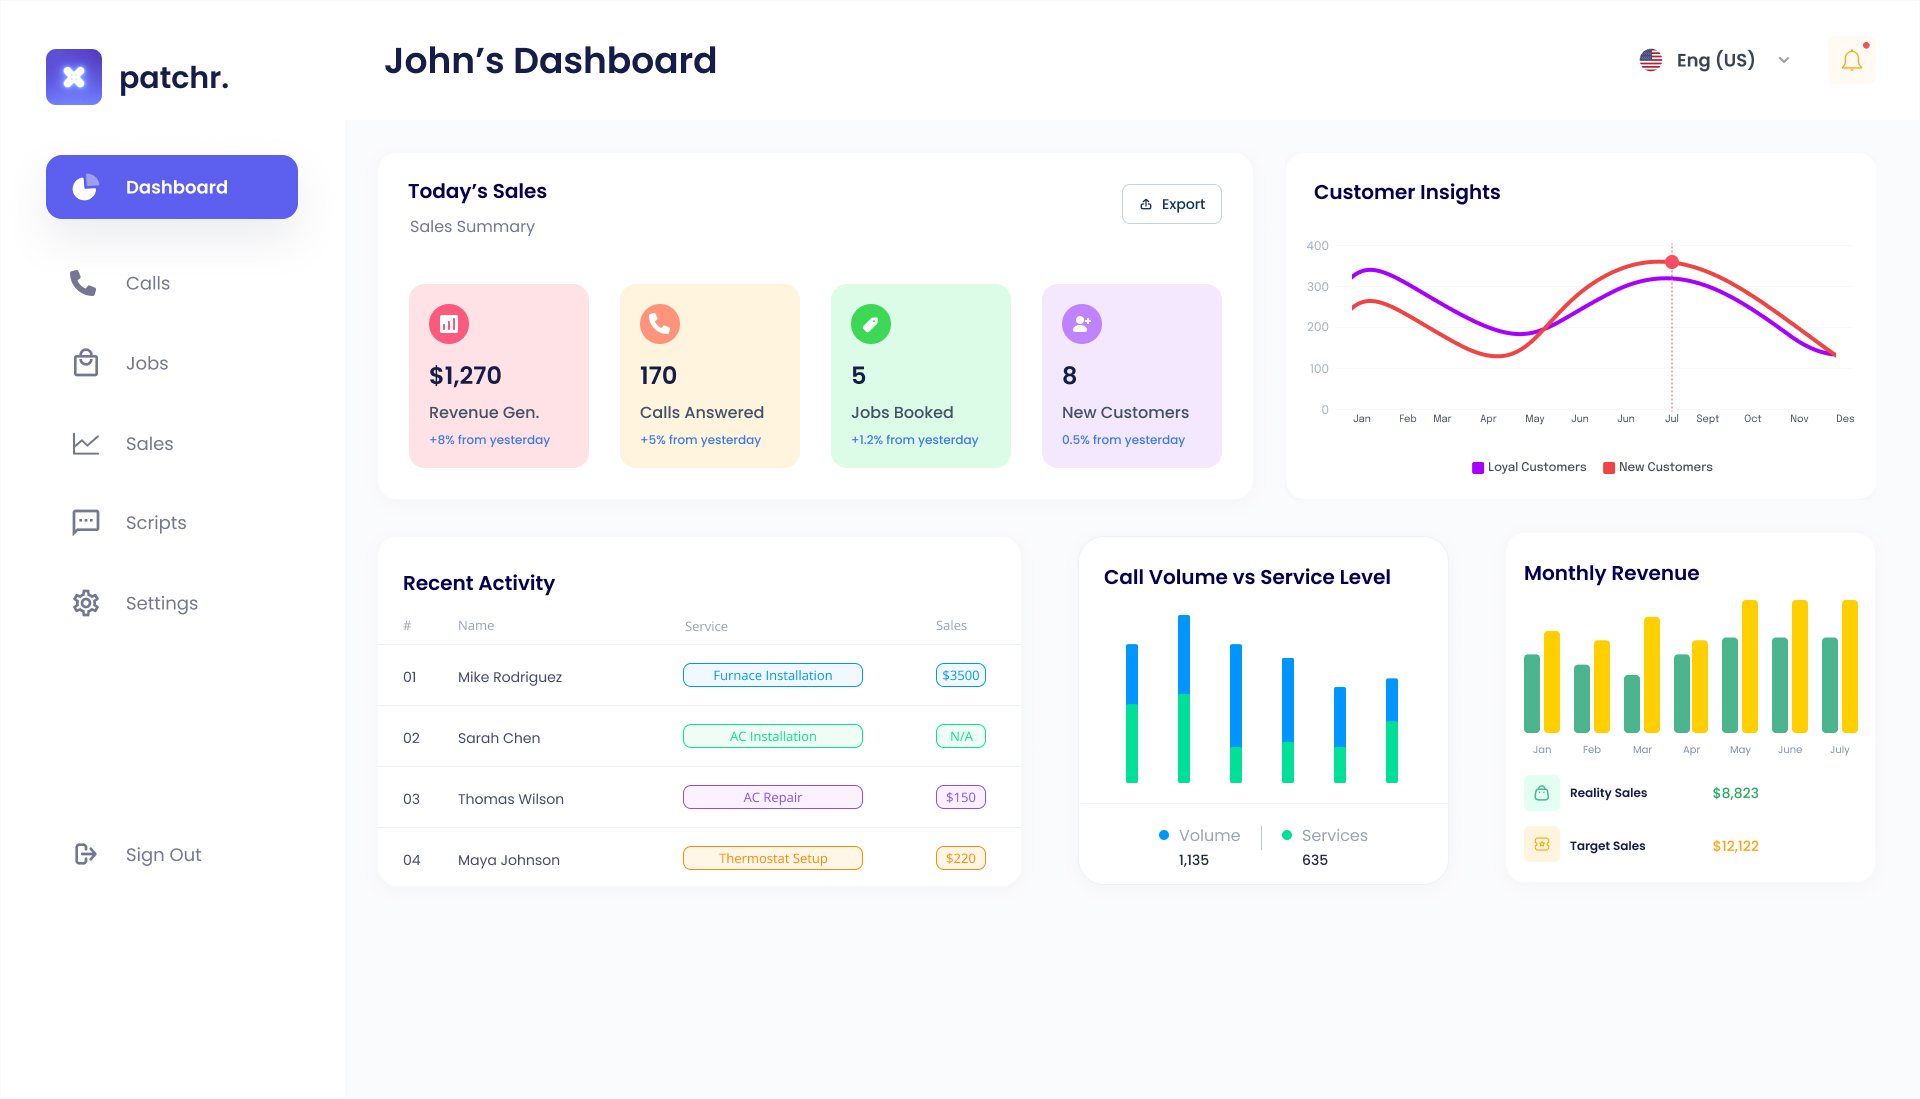
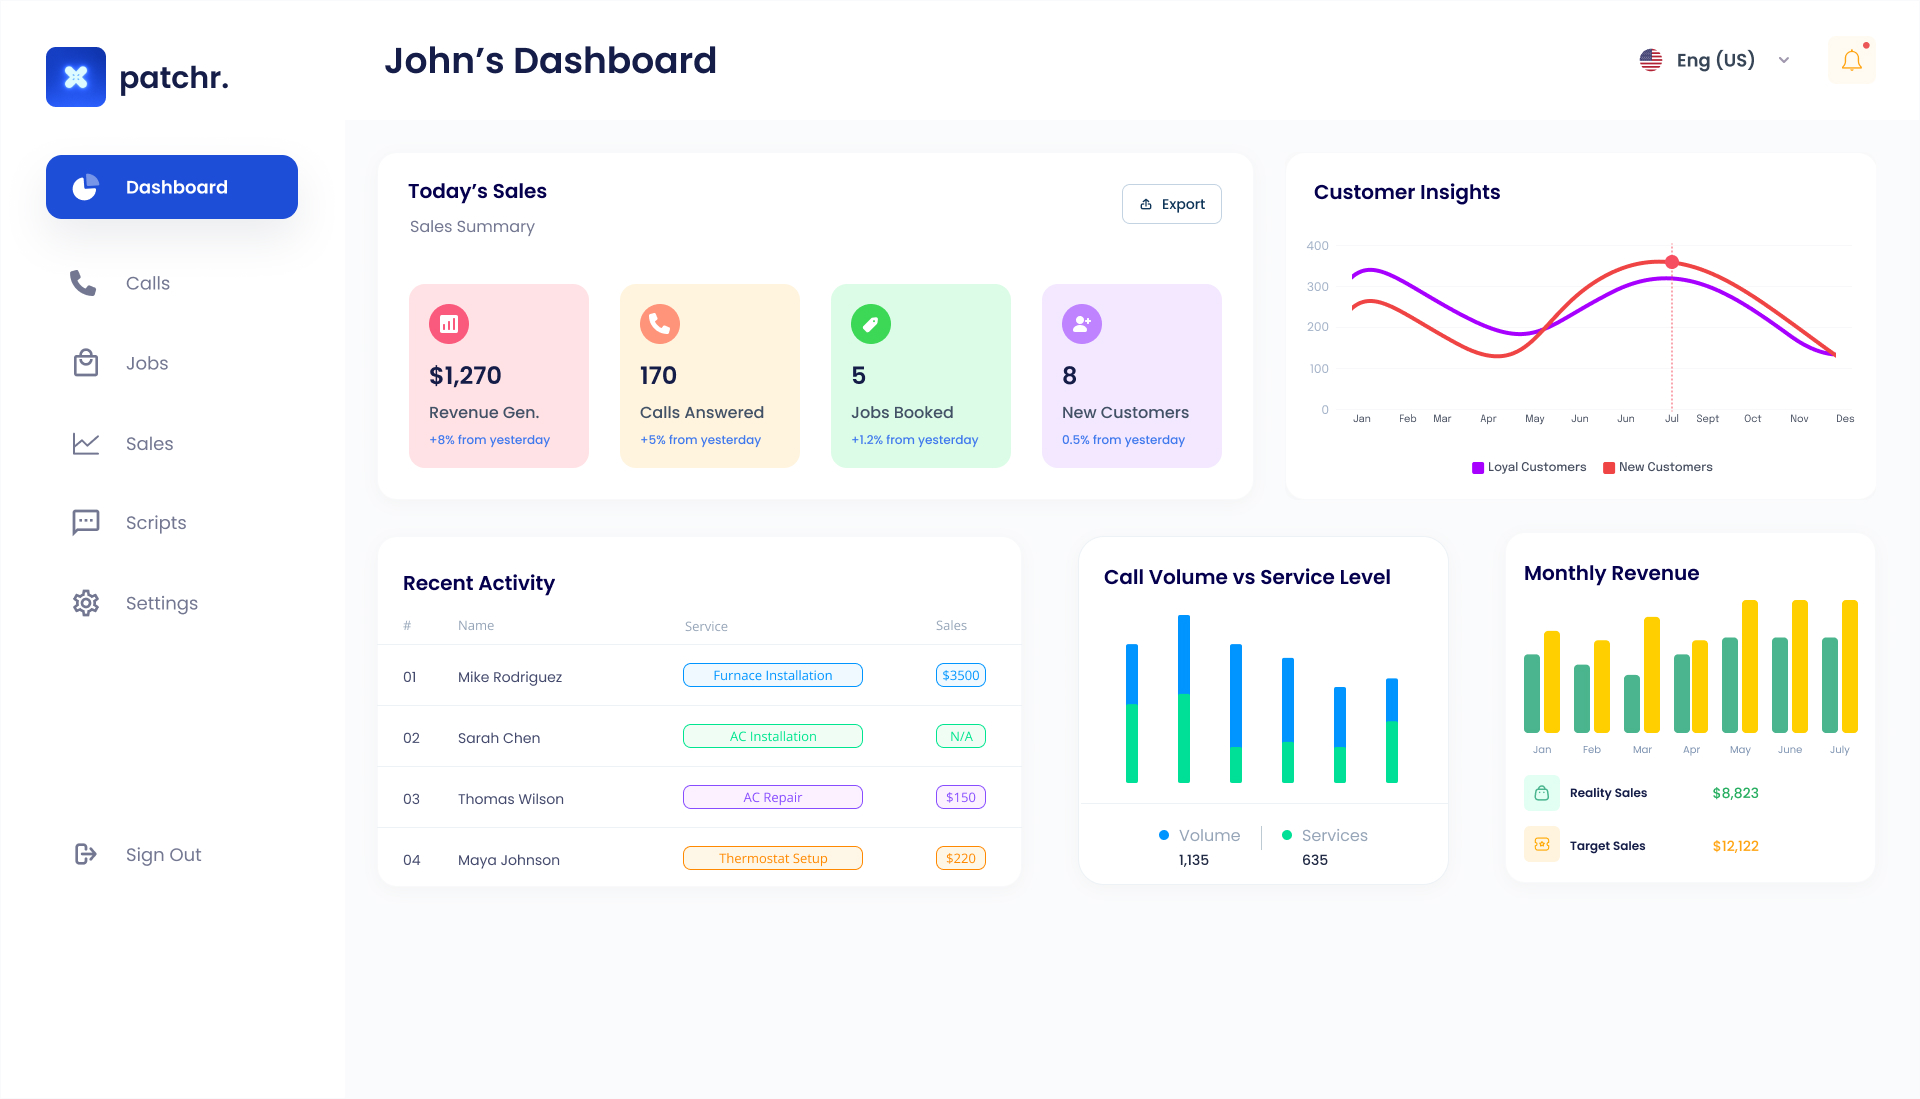
changed blue branding

Changed region(s): [[0.0, 0.0309, 0.1562, 0.2166]]

diff --git a/src/components/CtaSection.tsx b/src/components/CtaSection.tsx
@@ -63,7 +63,7 @@ const CtaSection = () => {
               height: 500,
               top: -250,
               left: -250,
-              background: `radial-gradient(circle, rgba(59, 130, 246, 0.15) 0%, rgba(59, 130, 246, 0.05) 40%, transparent 70%)`
+              background: `radial-gradient(circle, rgba(29, 78, 216, 0.15) 0%, rgba(29, 78, 216, 0.05) 40%, transparent 70%)`
             }}
             initial={{ opacity: 0 }}
             animate={{
@@ -131,8 +131,8 @@ const CtaSection = () => {
                   size="lg" 
                   className="relative overflow-hidden text-white px-8 py-4 rounded-xl shadow-xl border-0 font-semibold text-lg transition-all duration-300"
                   style={{
-                    background: 'linear-gradient(135deg, #3B82F6 0%, #1D4ED8 50%, #1E40AF 100%)',
-                    boxShadow: '0 10px 30px rgba(59, 130, 246, 0.3), 0 0 0 1px rgba(255, 255, 255, 0.1)'
+                    background: 'linear-gradient(135deg, #1D4ED8 0%, #1D4ED8 50%, #1E40AF 100%)',
+                    boxShadow: '0 10px 30px rgba(29, 78, 216, 0.3), 0 0 0 1px rgba(255, 255, 255, 0.1)'
                   }}
                 >
                   {/* Animated background gradient */}

diff --git a/src/components/DashboardSection.tsx b/src/components/DashboardSection.tsx
@@ -6,13 +6,14 @@ const DashboardSection = () => {
     <section className="w-full py-12 px-6 relative overflow-visible">
       <div className="max-w-screen-xl mx-auto">
         <div className="relative rounded-full">
-          <div className="bg-muted/40 shadow-2xl overflow-hidden border border-border rounded-3xl" 
+          <div className="bg-muted/40 shadow-2xl overflow-hidden border border-border rounded-3xl max-h-[630px]" 
                style={{
-                 boxShadow: '0 0 80px rgba(59, 130, 246, 0.4), 0 0 160px rgba(59, 130, 246, 0.25), 0 0 240px rgba(59, 130, 246, 0.15)'
+                 boxShadow: '0 0 80px rgba(29, 78, 216, 0.4), 0 0 160px rgba(29, 78, 216, 0.25), 0 0 240px rgba(29, 78, 216, 0.15)'
                }}>
             <img 
               alt="John's Dashboard showing patchr. sales and customer analytics" 
               className="w-full h-auto object-cover object-top" 
+              style={{ objectPosition: 'top', maxHeight: '630px' }}
               src="/Dashboard Design.jpg"
             />
           </div>

diff --git a/src/components/HeroSection.tsx b/src/components/HeroSection.tsx
@@ -68,8 +68,8 @@ const HeroSection = () => {
                 size="lg" 
                 className="relative overflow-hidden text-white px-8 py-4 rounded-xl shadow-xl border-0 font-semibold text-lg transition-all duration-300"
                 style={{
-                  background: 'linear-gradient(135deg, #3B82F6 0%, #1D4ED8 50%, #1E40AF 100%)',
-                  boxShadow: '0 10px 30px rgba(59, 130, 246, 0.3), 0 0 0 1px rgba(255, 255, 255, 0.1)'
+                  background: 'linear-gradient(135deg, #1D4ED8 0%, #1D4ED8 50%, #1E40AF 100%)',
+                  boxShadow: '0 10px 30px rgba(29, 78, 216, 0.3), 0 0 0 1px rgba(255, 255, 255, 0.1)'
                 }}
               >
                 {/* Animated background gradient */}

diff --git a/src/components/GetStartedSection.tsx b/src/components/GetStartedSection.tsx
@@ -131,7 +131,7 @@ const GetStartedSection = () => {
                         <div className="absolute bottom-0 left-0 right-0 h-1 bg-muted/30 rounded-b-lg overflow-hidden">
                           <motion.div
                             key={selectedFeature}
-                            className="h-full bg-gradient-to-r from-[#3B82F6] to-[#1D4ED8] rounded-b-lg"
+                            className="h-full bg-gradient-to-r from-[#1D4ED8] to-[#1D4ED8] rounded-b-lg"
                             initial={{ width: "0%" }}
                             animate={{ width: "100%" }}
                             transition={{ duration: STEP_DURATION / 1000, ease: "linear" }}

diff --git a/src/components/Navigation.tsx b/src/components/Navigation.tsx
@@ -102,7 +102,8 @@ const Navigation = () => {
             <Button
               className="px-4 py-2.5 text-sm font-semibold text-white rounded-xl"
               style={{
-                background: "linear-gradient(180deg, #3B82F6 0%, #1D4ED8 100%)",
+                background: "linear-gradient(180deg, #1D4ED8 0%, #1D4ED8 100%)",
+                boxShadow: '0 10px 30px rgba(29, 78, 216, 0.3), 0 0 0 1px rgba(255, 255, 255, 0.1)'
               }}
             >
               Get Started
